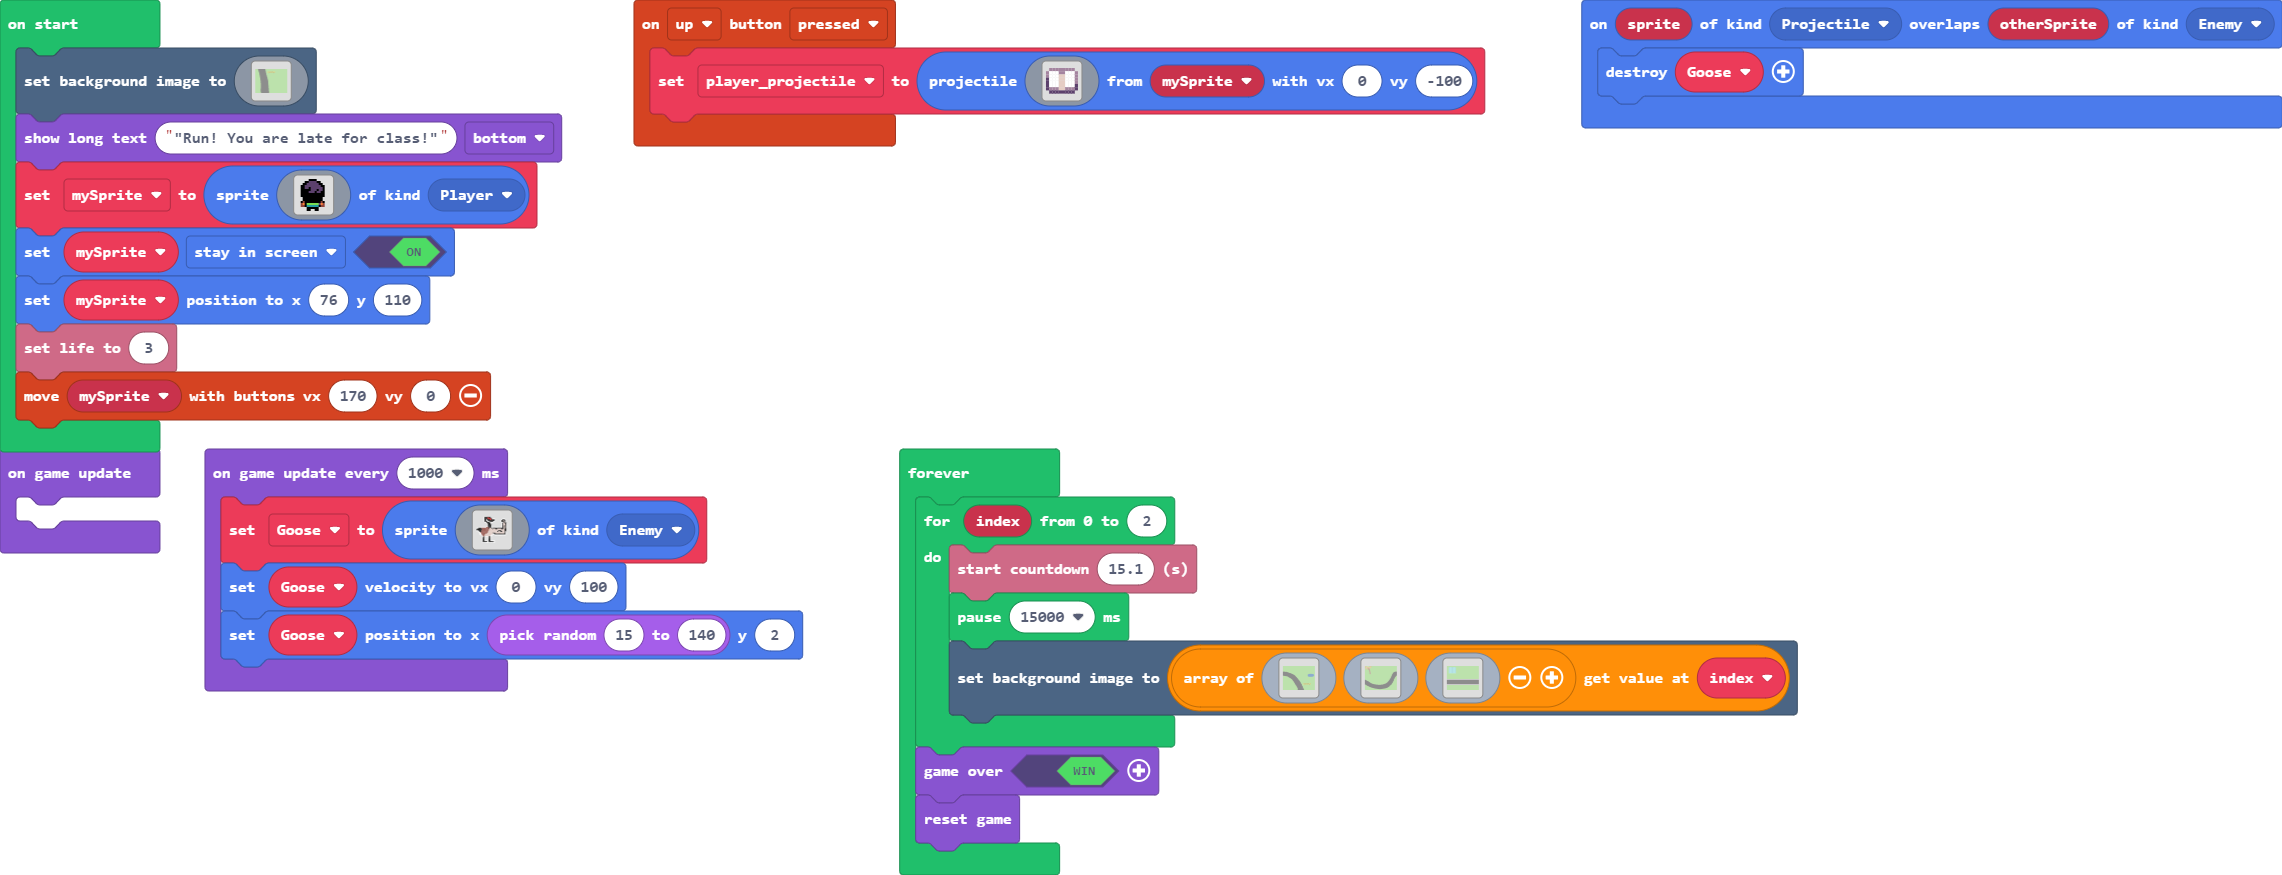
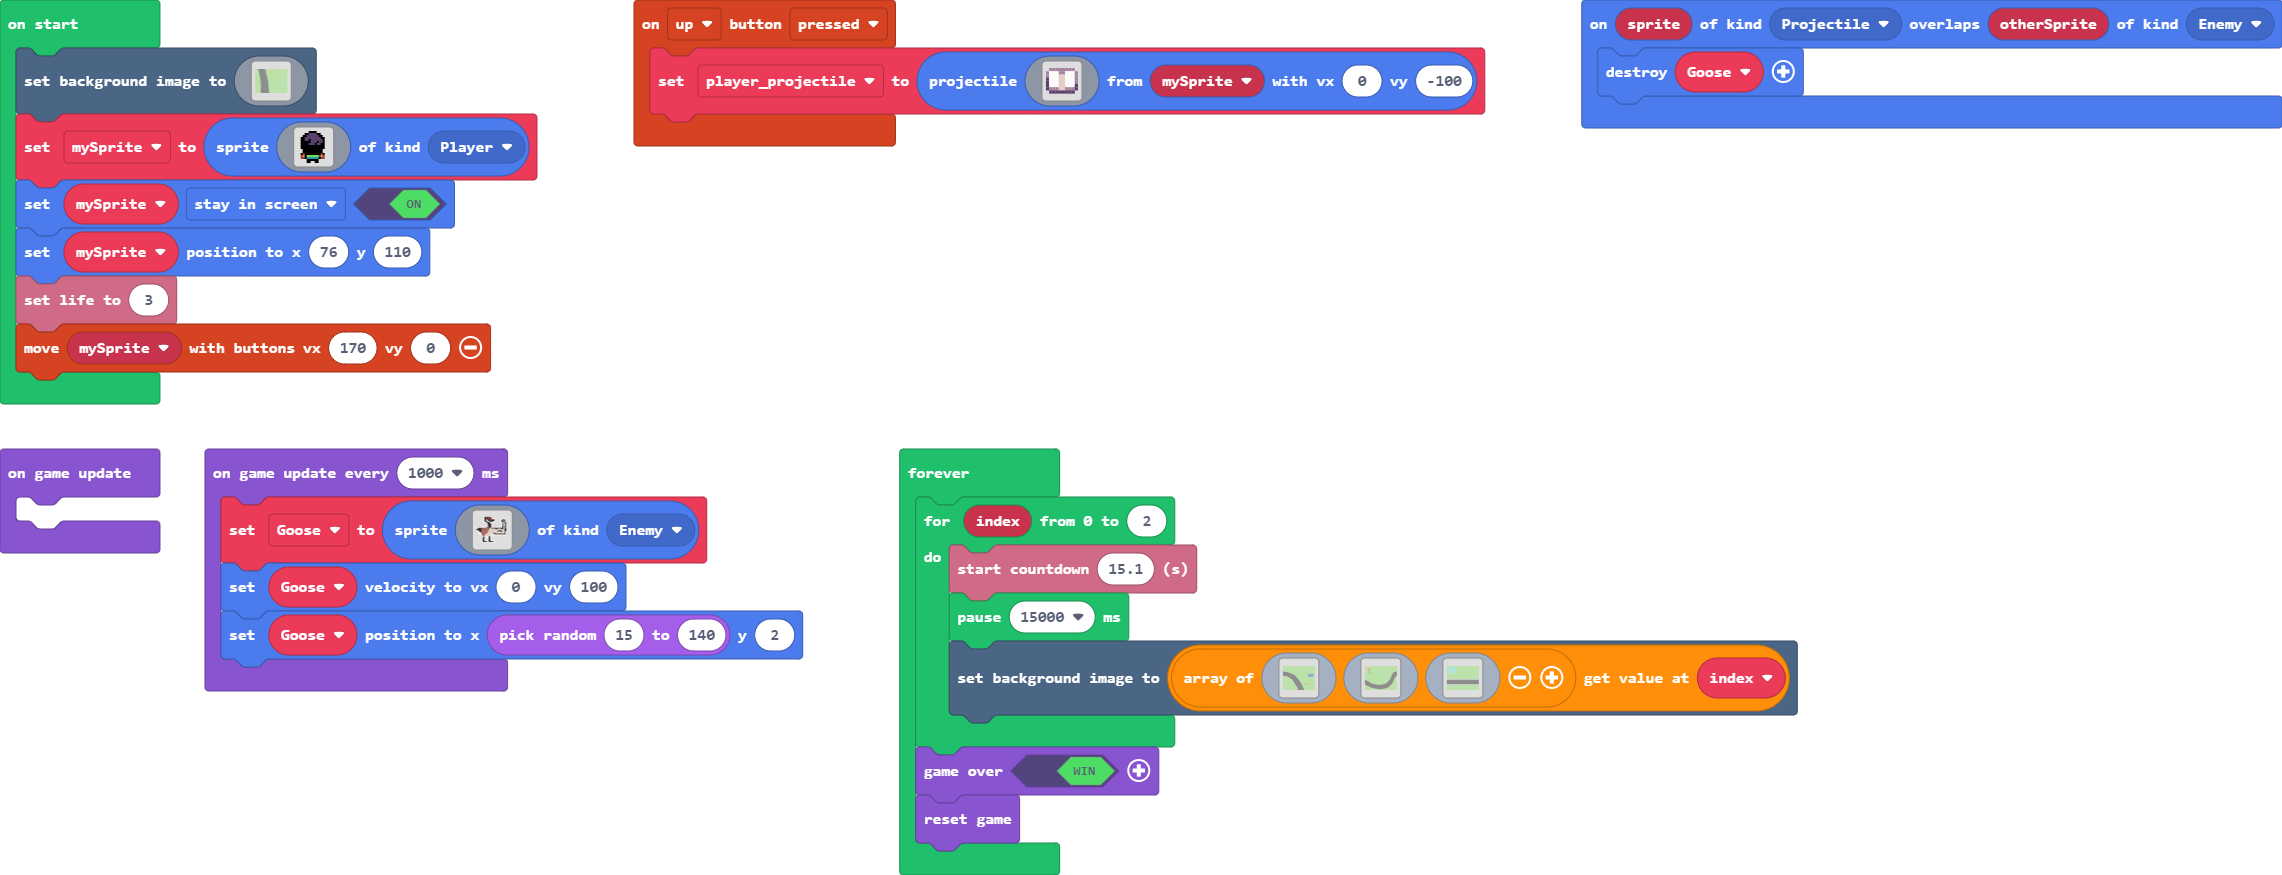
Update main.blocks, main.ts

Changed region(s): [[0.0, 0.1234, 0.2489, 0.5246]]

diff --git a/main.ts b/main.ts
@@ -138,7 +138,6 @@ scene.setBackgroundImage(img`
[2 lines of base64/hex data omitted]
     `)
-game.showLongText("\"Run! You are late for class!\"", DialogLayout.Bottom)
 mySprite = sprites.create(img`
     . . . . f f f f . . . . . 
     . . f f c c c c f f . . . 
